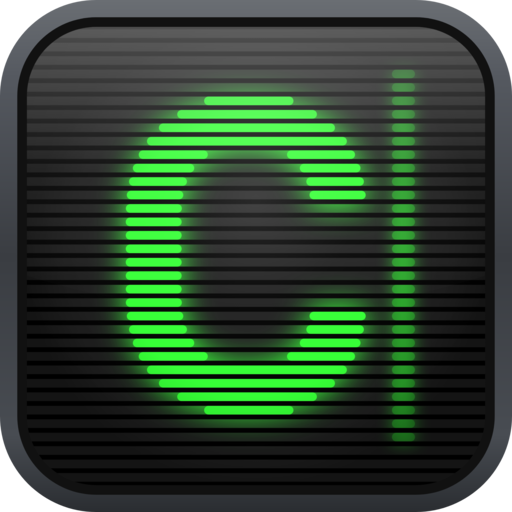
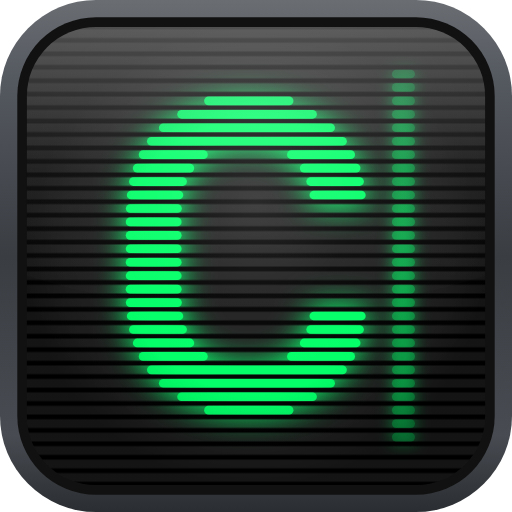
soften green color

Changed region(s): [[0.2188, 0.1875, 0.7188, 0.8125], [0.75, 0.2812, 0.8125, 0.7812]]

diff --git a/src/ui.rs b/src/ui.rs
@@ -37,7 +37,7 @@ impl ThemeColors {
         match theme {
             Theme::Dark => Self {
                 dim_border: Color::DarkGray,
-                title: Color::Rgb(0x22, 0xcc, 0x22),
+                title: Color::Rgb(0x2a, 0xd0, 0x5c),
                 accent: Color::Cyan,
                 dim_text: Color::DarkGray,
                 correct: Color::Rgb(100, 180, 255),
